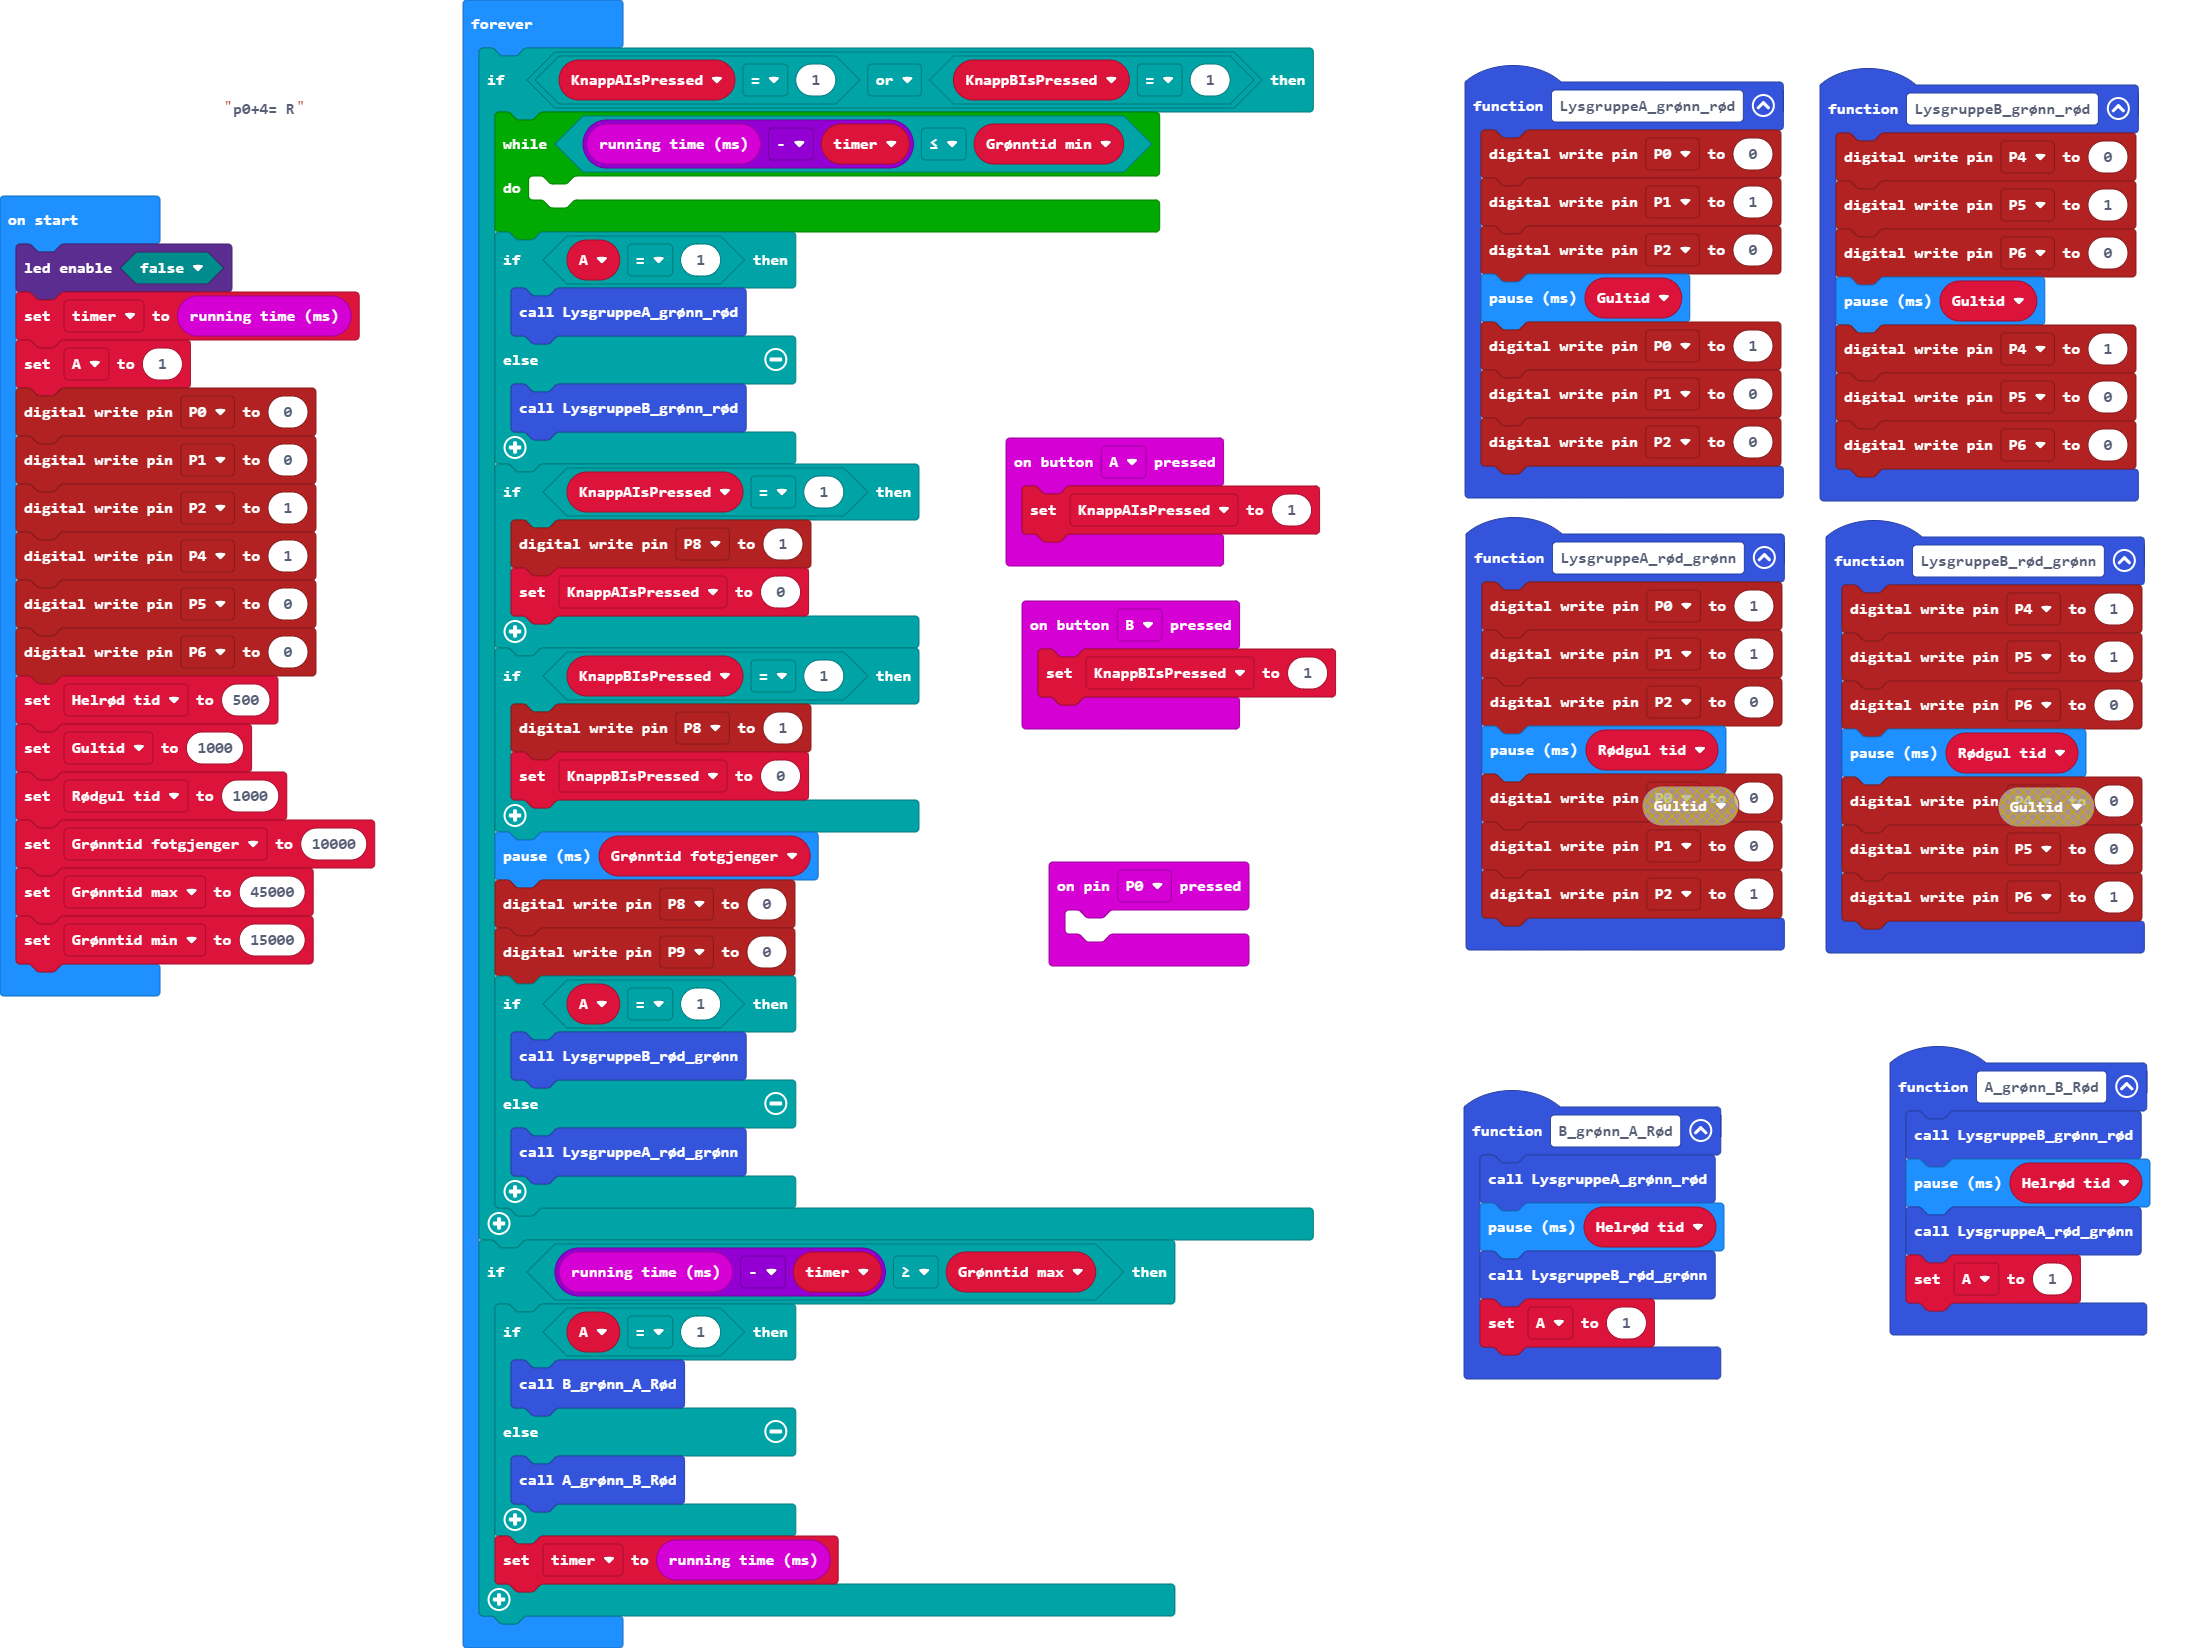
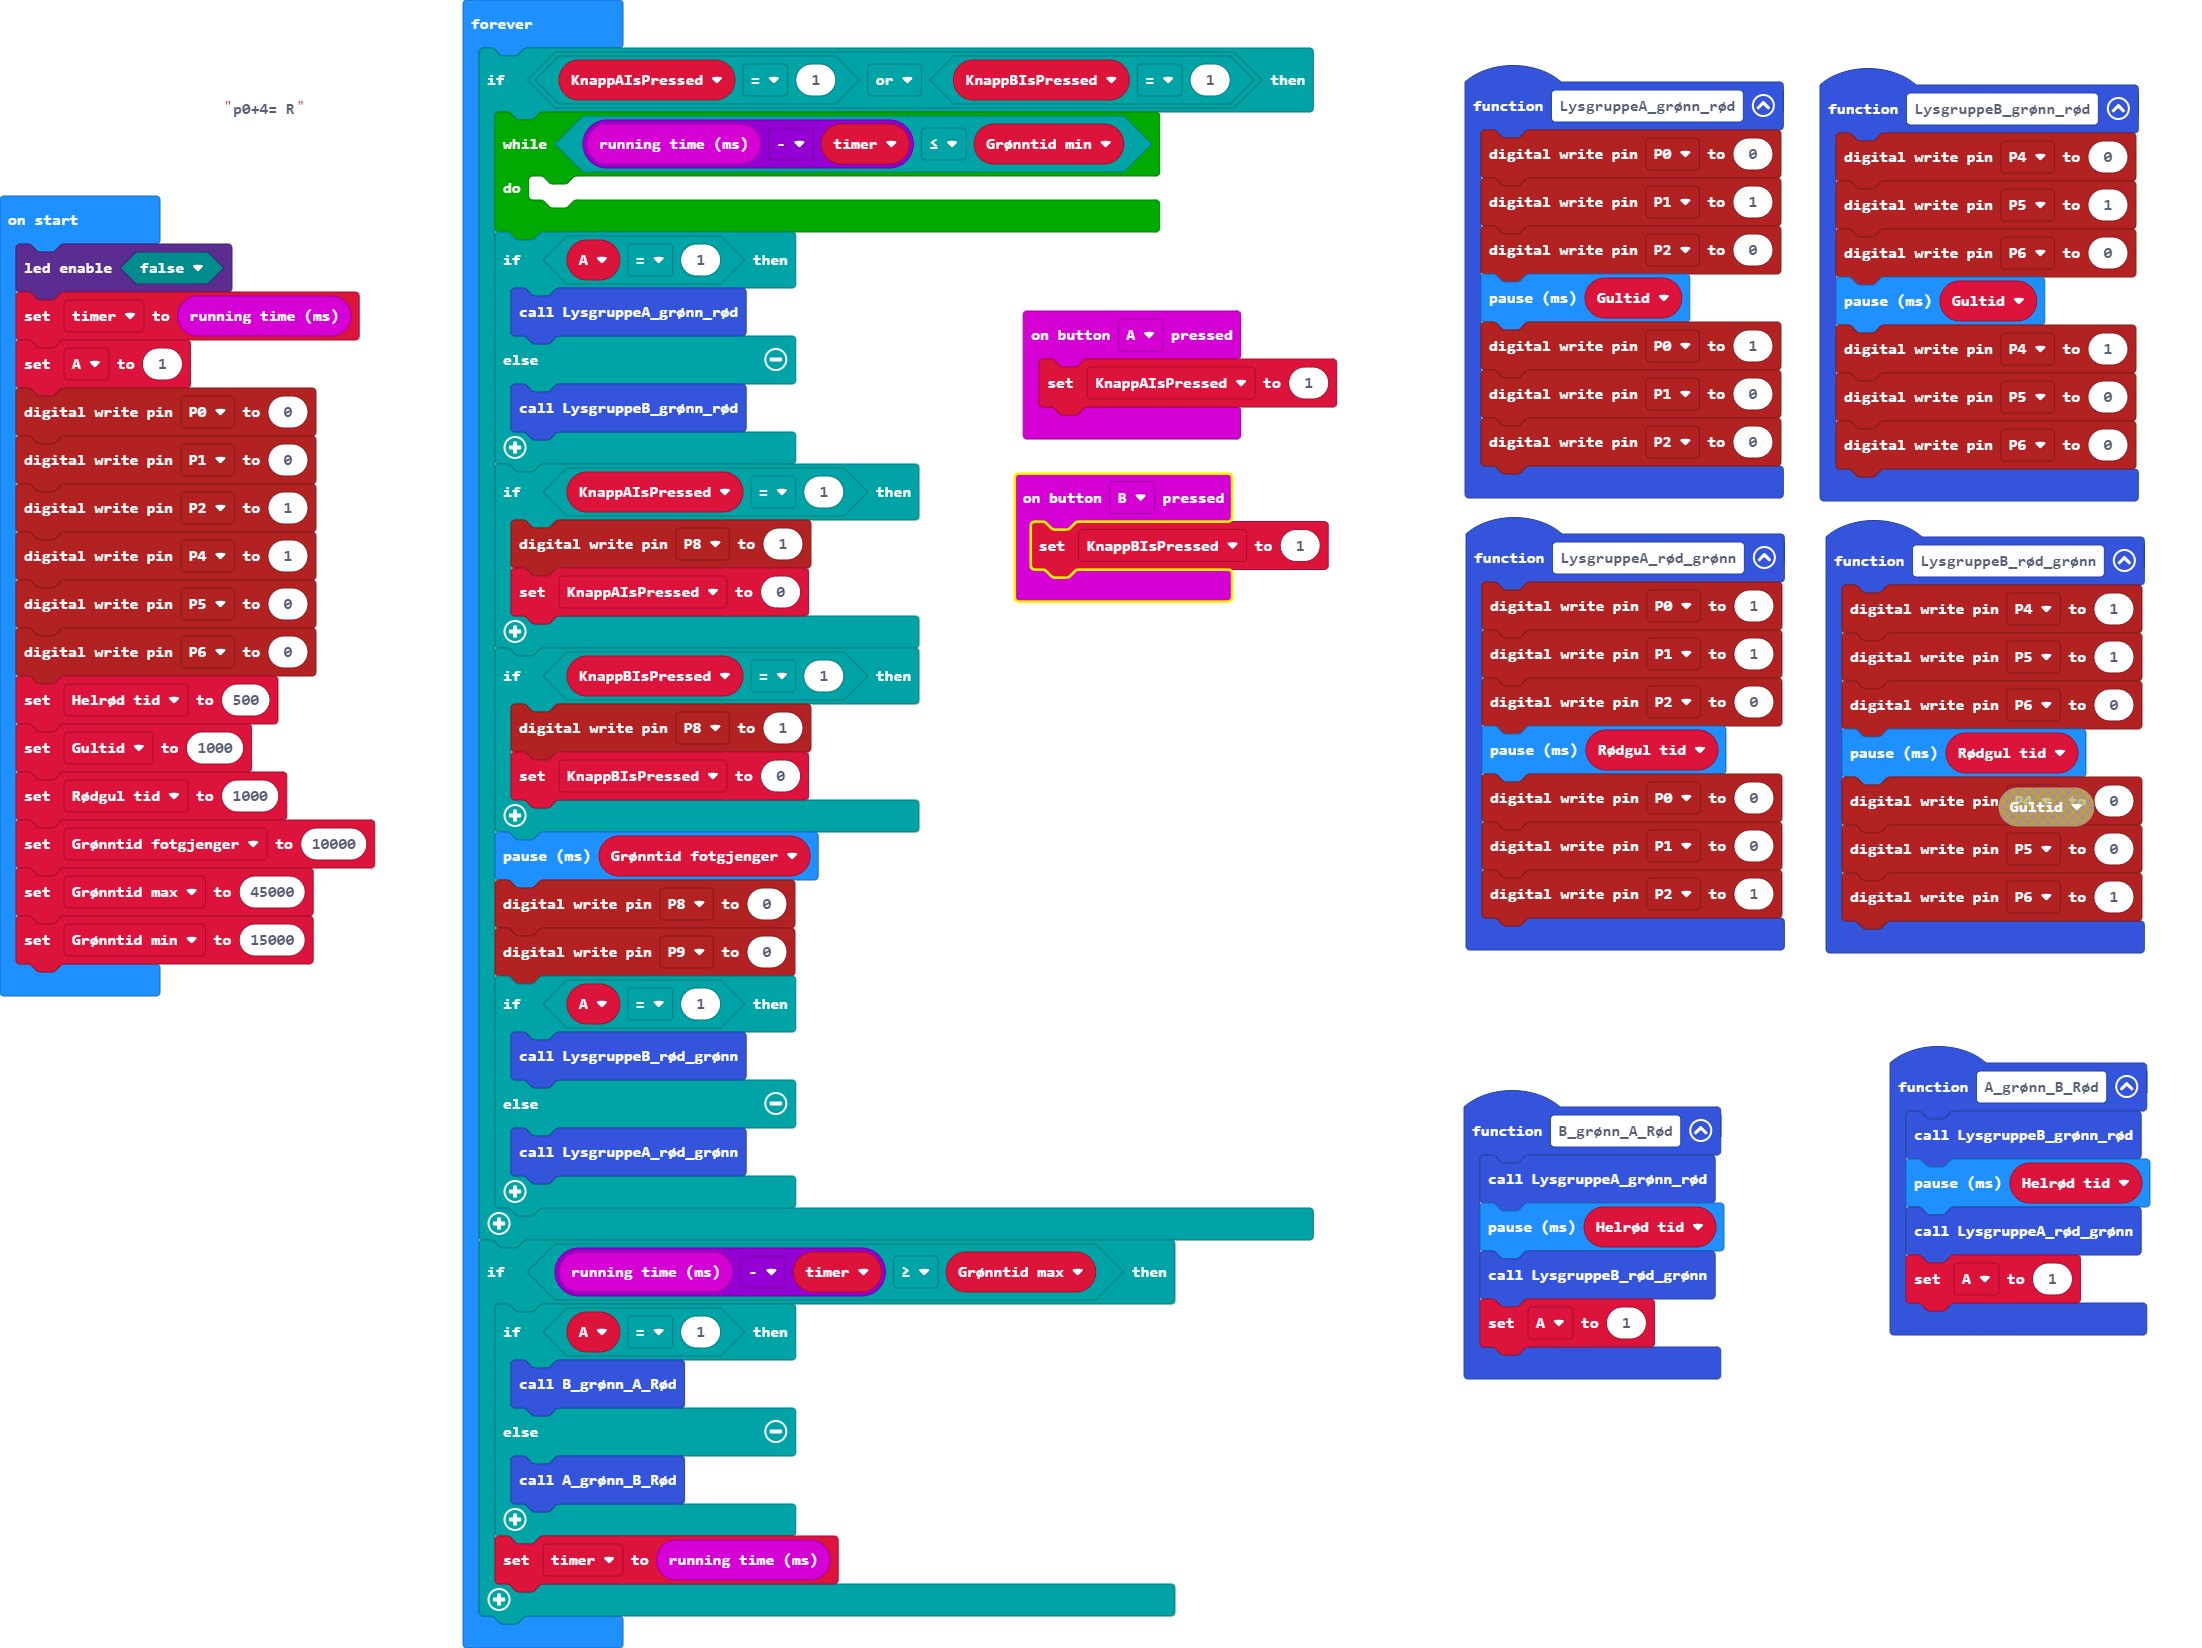
Update main.blocks, main.ts

Changed region(s): [[0.4323, 0.1857, 0.6176, 0.4642], [0.4632, 0.4951, 0.5867, 0.588], [0.7411, 0.4642, 0.8029, 0.5261]]

diff --git a/main.ts b/main.ts
@@ -1,6 +1,3 @@
-input.onPinPressed(TouchPin.P0, function () {
-	
-})
 function B_grønn_A_Rød () {
     LysgruppeA_grønn_rød()
     basic.pause(Helrød_tid)
